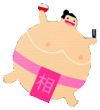
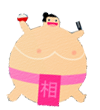
Almost finished game (lacks main menu)

diff --git a/src/org/orus/game/field/Table.java b/src/org/orus/game/field/Table.java
@@ -1,5 +1,8 @@
 package org.orus.game.field;
 
+import java.awt.Color;
+import java.awt.Font;
+import java.awt.FontMetrics;
 import java.awt.Graphics;
 import java.awt.Image;
 import java.awt.Rectangle;
@@ -21,12 +24,20 @@ import org.orus.game.player.Player;
 public class Table extends JPanel implements Runnable, Variables, FoodsCollection {
 	private Player player;
 	private Food food;
+	private ArrayList<Food> foods;
+	
 	String[] fruitsCollection = {foodAnanas, foodBanana, foodPear, foodWaterMelon};
 	String[] normalFoodCollection = {foodCake, foodCheese, foodDonuts, foodSomeFood};
-	private ArrayList<Food> foods;
+	
+	private int initialFoodSupply = 60;
+	private int score = 0;
+	private int fatnessLevel = 0;
+	
 	private Image backgroundImg;
 	private String backgroundImage = "../images/tableBackground.png";
+	
 	private boolean playing = true;
+	public boolean isFat = false;
 	
 	private Thread animation;
 	
@@ -39,11 +50,6 @@ public class Table extends JPanel implements Runnable, Variables, FoodsCollectio
 		initGame();
 		setDoubleBuffered(true);
 	}
-
-//	public void addNotify() {
-//		super.addNotify();
-//		initGame();
-//	}
 	
 	public void paintComponent(Graphics g) {
 
@@ -55,6 +61,15 @@ public class Table extends JPanel implements Runnable, Variables, FoodsCollectio
 		foods = new ArrayList<Food>();
 		player = new Player();
 		
+		generateFood(initialFoodSupply);
+		
+		if (animation == null || !playing) {
+			animation = new Thread(this);
+			animation.start();
+		}
+	}
+
+	public void generateFood(int foodSupply) {
 		Random rnd = new Random();
 		String foodType;
 		ImageIcon icon;
@@ -62,17 +77,17 @@ public class Table extends JPanel implements Runnable, Variables, FoodsCollectio
 		int foodTypeChoice;
 		int spawnPosition;
 		
-		for (int i = 0; i <= 30; i++) {
+		for (int i = 0; i <= foodSupply; i++) {
 			foodChoice = rnd.nextInt(4);
-			foodTypeChoice = rnd.nextInt(2);
-			spawnPosition = 5 + rnd.nextInt(windowWidth - 5);
+			foodTypeChoice = rnd.nextInt(200);
+			spawnPosition = 5 + rnd.nextInt(windowWidth - 50);
 			
-			if (foodChoice == 0) {
+			if (foodTypeChoice <= 12) {
 				foodType = "fruit";
 				icon = new ImageIcon(getClass().getResource(fruitsCollection[foodChoice]));
 				
 			} else {
-				foodType = "normal";
+				foodType = "fatFood";
 				icon = new ImageIcon(getClass().getResource(normalFoodCollection[foodChoice]));
 			}
 			
@@ -80,14 +95,7 @@ public class Table extends JPanel implements Runnable, Variables, FoodsCollectio
 			food.setImage(icon.getImage());
 			foods.add(food);
 		}
-		
-		if (animation == null || !playing) {
-			animation = new Thread(this);
-			animation.start();
-		}
 	}
-	
-	//COLLISION CHECK
 	
 	public void drawPlayer(Graphics g) {
 		if (player.isVisible()) {
@@ -96,6 +104,10 @@ public class Table extends JPanel implements Runnable, Variables, FoodsCollectio
 	}
 	
 	public void drawFood(Graphics g) {
+		if (foods.size() < initialFoodSupply) {
+			generateFood(initialFoodSupply - foods.size());
+		}
+
 		Iterator iter = foods.iterator();
 		
 		while(iter.hasNext()) {
@@ -113,6 +125,7 @@ public class Table extends JPanel implements Runnable, Variables, FoodsCollectio
 		if (playing) {
 			drawPlayer(g);
 			drawFood(g);
+			displayResult();
 		}
 		
 		Toolkit.getDefaultToolkit().sync();
@@ -128,18 +141,82 @@ public class Table extends JPanel implements Runnable, Variables, FoodsCollectio
 			Rectangle foodBounds = food.getBounds();
 			
 			if (playerBounds.intersects(foodBounds)) {
-				food.setVisible(false);
+				food.setEaten(true);
+				
+				if (food.getType().equals("fatFood")) {
+					fatnessLevel++;
+					score += 5;
+				} else {
+					fatnessLevel -= 10;
+					score += 20;
+				}
+				
+				if (fatnessLevel < 0) {
+					fatnessLevel = 0;
+				}
+				
+				if (fatnessLevel > 50 && !isFat) {
+					isFat = true;
+					ImageIcon icon = new ImageIcon(getClass().getResource("../images/bigMan.png"));
+					player.setImage(icon.getImage());
+					player.setY(player.getY() - 40);
+					player.setWidth(100);
+					player.setHeight(105);
+					player.setBounds(player.getX(), player.getY(), 0, 0);
+					
+				} else if (fatnessLevel <= 50 && isFat) {
+					isFat = false;
+					ImageIcon icon = new ImageIcon(getClass().getResource("../images/littleMan.png"));
+					player.setImage(icon.getImage());
+					player.setY(player.getY() + 40);
+					player.setWidth(60);
+					player.setHeight(60);
+					player.setBounds(player.getX(), player.getY(), 0, 0);
+				}
+				
+				if (fatnessLevel >= 200) {
+					playing = false;
+				}
 			}
 		}
 	}
 	
+	public void displayResult() {
+		Graphics g = this.getGraphics();
+		
+		Font someFont = new Font("Helvetica", Font.BOLD, 16);
+		FontMetrics metrics = this.getFontMetrics(someFont);
+		
+		g.setColor(Color.WHITE);
+		g.setFont(someFont);
+		g.drawString("Fattness Level: " + String.valueOf(fatnessLevel), 100, 15);
+		g.drawString("Score: " + String.valueOf(score), 10, 15);
+	}
+	
+	public void gameOver() {
+		Graphics g = this.getGraphics();
+		
+		g.setColor(Color.BLACK);
+		g.fillRect(windowWidth / 2 - 160, windowHeight / 2 - 120, 300, 150);
+		
+		Font small = new Font("Helvetica", Font.BOLD, 20);
+        FontMetrics metrics = this.getFontMetrics(small);
+		
+        g.setFont(small);
+		g.setColor(Color.WHITE);
+		g.drawString("TOO... MUCH... FOOD!", windowWidth / 2 - 115, windowHeight / 2 - 60);
+		
+		g.setColor(Color.RED);
+		g.drawString("GAME OVER!!!", windowWidth / 2 - 75, windowHeight / 2 - 30);
+		
+	}
+	
 	public void runAnimation() {
 		player.move();
-		
 		for (int i = 0; i < foods.size(); i++) {
 			Food food = foods.get(i);
 			
-			if(food.isVisible()) {
+			if(!food.isEaten()) {
 				food.fall(3);
 			} else {
 				foods.remove(i);
@@ -173,6 +250,8 @@ public class Table extends JPanel implements Runnable, Variables, FoodsCollectio
 			
 			initialTime = System.currentTimeMillis();			
 		}
+		
+		gameOver();
 	}
 	
 	private class TAdapter extends KeyAdapter {

diff --git a/src/org/orus/game/player/Player.java b/src/org/orus/game/player/Player.java
@@ -10,20 +10,24 @@ import org.orus.game.commons.*;
 public class Player extends Sprite implements Variables {
 	private int initialX = windowWidth / 2;
 	private int initialY = windowHeight - ground;
-	private final String player = "../images/littleMan.png";
+	
 	private int playerWidth;
 	private int playerHeight;
 	
+	private Rectangle bounds;
+	private final String player = "../images/littleMan.png";
+	
 	public Player() {
 		ImageIcon icon = new ImageIcon(this.getClass().getResource(player));
-		playerWidth = icon.getImage().getWidth(null);
-		playerHeight = icon.getImage().getHeight(null);
-		initialX -= playerWidth;
+		setWidth(icon.getImage().getWidth(null));
+		setHeight(icon.getImage().getHeight(null));
 		
+		initialX -= getWidth();
 		
 		setImage(icon.getImage());
 		setX(initialX);
 		setY(initialY);
+
 	}
 	
 	public void move() {
@@ -33,13 +37,19 @@ public class Player extends Sprite implements Variables {
 			x = 10;
 		}
 		
-		if (x >= windowWidth - playerWidth - 50) {
-			x = windowWidth - playerWidth - 50;
+		if (x >= windowWidth - getWidth() - 40) {
+			x = windowWidth - getWidth() - 40;
 		}
+		
+		setBounds(x, y, getWidth(), getHeight());
+	}
+	
+	public void setBounds(int x, int y, int playerWidth, int playerHeight) {
+		this.bounds = new Rectangle(x, y, playerWidth, playerHeight);
 	}
 	
 	public Rectangle getBounds() {
-		return new Rectangle(x, y, playerWidth, playerHeight);
+		return bounds;
 	}
 	
 	public void keyPressed(KeyEvent event) {

diff --git a/src/org/orus/game/commons/Sprite.java b/src/org/orus/game/commons/Sprite.java
@@ -3,12 +3,18 @@ package org.orus.game.commons;
 import java.awt.Image;
 
 public class Sprite {
-	private boolean visible;
 	private Image img;
+	protected String type;
+	
+	private boolean visible;
+	protected boolean dying;
+	
 	protected int x;
 	protected int y;
-	protected String type;
-	protected boolean dying;
+	
+	protected int width;
+	protected int height;
+	
 	protected int directionX;
 	
 	public Sprite() {
@@ -49,6 +55,22 @@ public class Sprite {
 
 	public void setY(int y) {
 		this.y = y;
+	}
+	
+	public void setWidth(int width) {
+		this.width = width;
+	}
+	
+	public int getWidth() {
+		return width;
+	}
+	
+	public void setHeight(int height) {
+		this.height = height;
+	}
+	
+	public int getHeight() {
+		return height;
 	}
 	
 	public void setType(String type) {

diff --git a/src/org/orus/game/food/Food.java b/src/org/orus/game/food/Food.java
@@ -3,7 +3,7 @@ import java.awt.Rectangle;
 
 import org.orus.game.commons.*;
 
-public class Food extends Sprite {
+public class Food extends Sprite implements Variables {
 	private boolean eaten;
 	
 	public Food(int x, int y, String type) {
@@ -14,6 +14,10 @@ public class Food extends Sprite {
 	
 	public void fall(int direction) {
 		this.y += direction;
+		
+		if (y > windowHeight) {
+			y = 0;
+		}
 	}
 	
 	public void setEaten(boolean eaten) {
